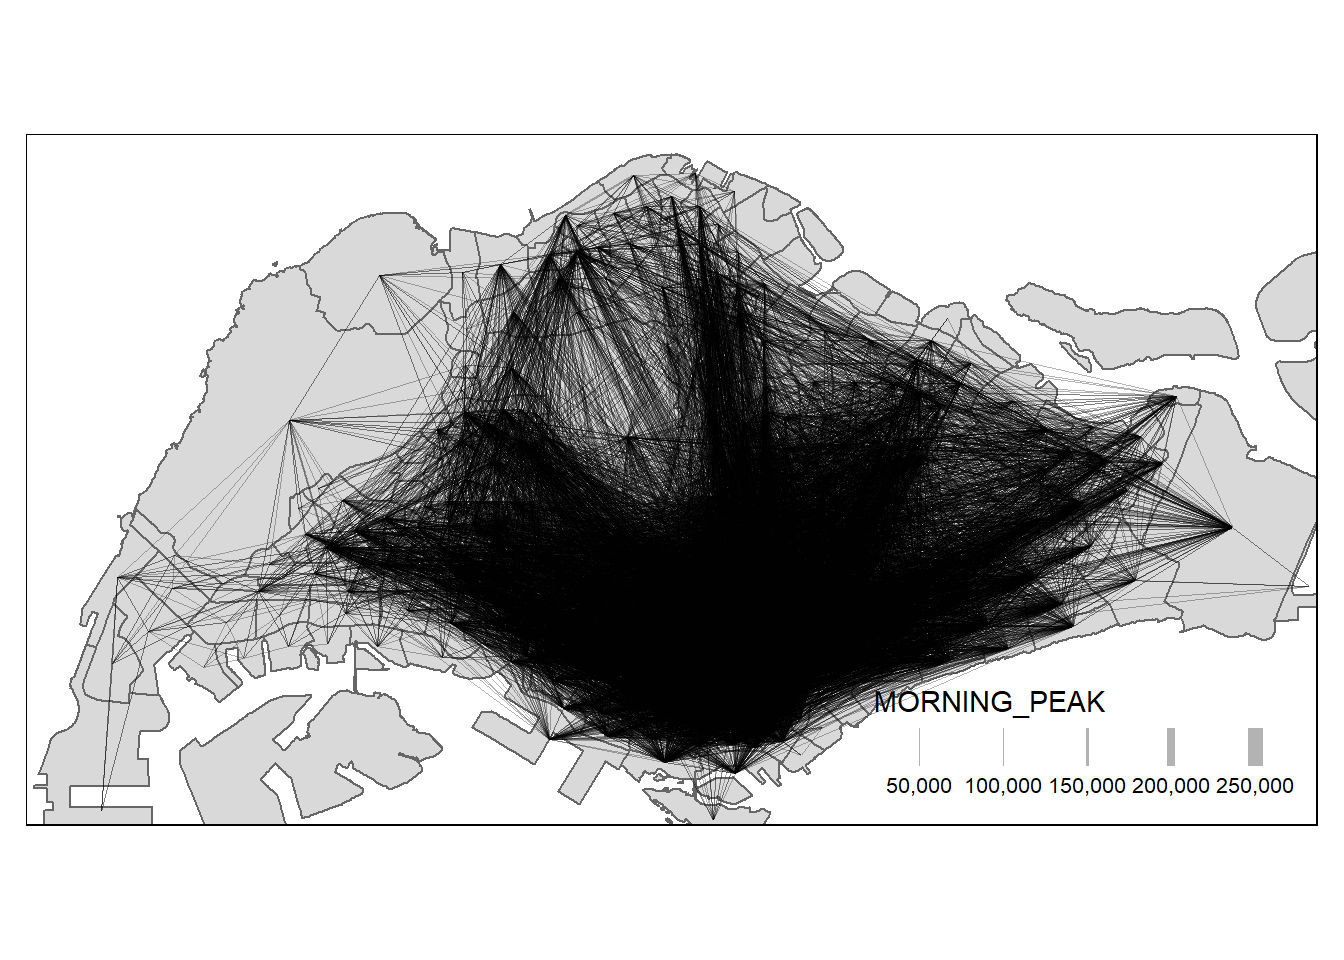
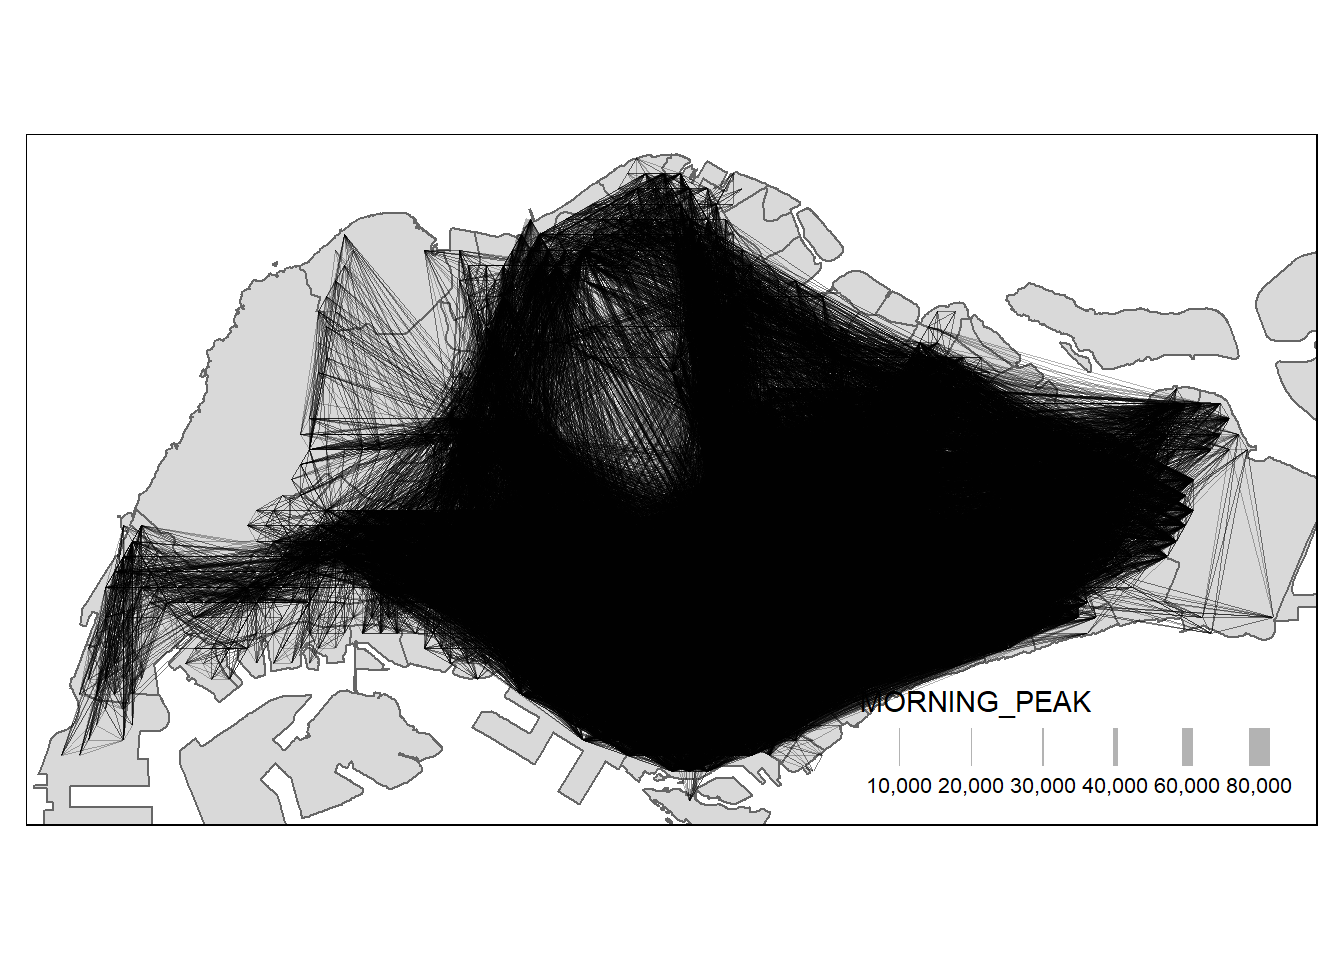
4th commit take_home_ex2 updated

Changed region(s): [[0.0312, 0.1562, 0.9688, 0.8438], [0.6562, 0.75, 0.9688, 0.8438]]

diff --git a/_site/take_home_ex2/take_home_ex2.html b/_site/take_home_ex2/take_home_ex2.html
@@ -282,7 +282,7 @@ pre > code.sourceCode > span > a:first-child::before { text-decoration: underlin
     <div>
     <div class="quarto-title-meta-heading">Modified</div>
     <div class="quarto-title-meta-contents">
-      <p class="date-modified">December 6, 2023</p>
+      <p class="date-modified">December 7, 2023</p>
     </div>
   </div>
     
@@ -488,7 +488,7 @@ Writing 2988 features with 0 fields and geometry type Polygon.</code></pre>
 <div class="cell-output cell-output-stdout">
 <pre><code>Reading layer `hexagon' from data source 
   `C:\czx0727\ISSS624_\take_home_ex2\data\geospatial' using driver `ESRI Shapefile'
-Simple feature collection with 20916 features and 1 field
+Simple feature collection with 23904 features and 1 field
 Geometry type: POLYGON
 Dimension:     XY
 Bounding box:  xmin: 3320.122 ymin: 26106.82 xmax: 48820.12 ymax: 50499.87
@@ -515,7 +515,7 @@ Projected CRS: SVY21 / Singapore TM</code></pre>
 <div class="cell-output cell-output-stderr">
 <pre><code>Warning in left_join(odbus6_9, od_data, by = c(ORIGIN_PT_CODE = "BUS_STOP_N")): Detected an unexpected many-to-many relationship between `x` and `y`.
 ℹ Row 1 of `x` matches multiple rows in `y`.
-ℹ Row 4705 of `y` matches multiple rows in `x`.
+ℹ Row 5377 of `y` matches multiple rows in `x`.
 ℹ If a many-to-many relationship is expected, set `relationship =
   "many-to-many"` to silence this warning.</code></pre>
 </div>
@@ -539,7 +539,7 @@ Projected CRS: SVY21 / Singapore TM</code></pre>
 <div class="cell-output cell-output-stderr">
 <pre><code>Warning in left_join(od_data_1, od_data, by = c(DESTIN_BS = "BUS_STOP_N")): Detected an unexpected many-to-many relationship between `x` and `y`.
 ℹ Row 1 of `x` matches multiple rows in `y`.
-ℹ Row 4698 of `y` matches multiple rows in `x`.
+ℹ Row 5369 of `y` matches multiple rows in `x`.
 ℹ If a many-to-many relationship is expected, set `relationship =
   "many-to-many"` to silence this warning.</code></pre>
 </div>
@@ -555,12 +555,11 @@ Projected CRS: SVY21 / Singapore TM</code></pre>
 </div>
 <div class="cell">
 <div class="sourceCode cell-code" id="cb35"><pre class="sourceCode r code-with-copy"><code class="sourceCode r"><span id="cb35-1"><a href="#cb35-1" aria-hidden="true" tabindex="-1"></a>od_data_2 <span class="ot">&lt;-</span> od_data_2 <span class="sc">%&gt;%</span></span>
-<span id="cb35-2"><a href="#cb35-2" aria-hidden="true" tabindex="-1"></a>  <span class="fu">rename</span>(<span class="at">DESTIN_SZ =</span> SUBZONE_C) <span class="sc">%&gt;%</span></span>
-<span id="cb35-3"><a href="#cb35-3" aria-hidden="true" tabindex="-1"></a>  <span class="fu">drop_na</span>() <span class="sc">%&gt;%</span></span>
-<span id="cb35-4"><a href="#cb35-4" aria-hidden="true" tabindex="-1"></a>  <span class="fu">group_by</span>(ORIGIN_SZ, DESTIN_SZ) <span class="sc">%&gt;%</span></span>
-<span id="cb35-5"><a href="#cb35-5" aria-hidden="true" tabindex="-1"></a>  <span class="fu">summarise</span>(<span class="at">MORNING_PEAK =</span> <span class="fu">sum</span>(TRIPS))</span></code><button title="Copy to Clipboard" class="code-copy-button"><i class="bi"></i></button></pre></div>
+<span id="cb35-2"><a href="#cb35-2" aria-hidden="true" tabindex="-1"></a>  <span class="fu">drop_na</span>() <span class="sc">%&gt;%</span></span>
+<span id="cb35-3"><a href="#cb35-3" aria-hidden="true" tabindex="-1"></a>  <span class="fu">group_by</span>(FID.x, FID.y) <span class="sc">%&gt;%</span></span>
+<span id="cb35-4"><a href="#cb35-4" aria-hidden="true" tabindex="-1"></a>  <span class="fu">summarise</span>(<span class="at">MORNING_PEAK =</span> <span class="fu">sum</span>(TRIPS))</span></code><button title="Copy to Clipboard" class="code-copy-button"><i class="bi"></i></button></pre></div>
 <div class="cell-output cell-output-stderr">
-<pre><code>`summarise()` has grouped output by 'ORIGIN_SZ'. You can override using the
+<pre><code>`summarise()` has grouped output by 'FID.x'. You can override using the
 `.groups` argument.</code></pre>
 </div>
 </div>
@@ -579,7 +578,7 @@ Projected CRS: SVY21 / Singapore TM</code></pre>
 <h2 class="anchored" data-anchor-id="removing-intra-zonal-flows"><strong>5.1 Removing intra-zonal flows</strong></h2>
 <p>I will not plot the intra-zonal flows. The code chunk below will be used to remove intra-zonal flows.</p>
 <div class="cell">
-<div class="sourceCode cell-code" id="cb39"><pre class="sourceCode r code-with-copy"><code class="sourceCode r"><span id="cb39-1"><a href="#cb39-1" aria-hidden="true" tabindex="-1"></a>od_data_3 <span class="ot">&lt;-</span> od_data_2[od_data_2<span class="sc">$</span>ORIGIN_SZ<span class="sc">!=</span>od_data_2<span class="sc">$</span>DESTIN_SZ,]</span></code><button title="Copy to Clipboard" class="code-copy-button"><i class="bi"></i></button></pre></div>
+<div class="sourceCode cell-code" id="cb39"><pre class="sourceCode r code-with-copy"><code class="sourceCode r"><span id="cb39-1"><a href="#cb39-1" aria-hidden="true" tabindex="-1"></a>od_data_3 <span class="ot">&lt;-</span> od_data_2[od_data_2<span class="sc">$</span>FID.x<span class="sc">!=</span>od_data_2<span class="sc">$</span>FID.y,]</span></code><button title="Copy to Clipboard" class="code-copy-button"><i class="bi"></i></button></pre></div>
 </div>
 </section>
 <section id="creating-desire-lines" class="level2">
@@ -587,8 +586,8 @@ Projected CRS: SVY21 / Singapore TM</code></pre>
 <p>In this code chunk below,&nbsp;<code>od2line()</code>&nbsp;of&nbsp;<strong>stplanr</strong>&nbsp;package is used to create the desire lines.</p>
 <div class="cell">
 <div class="sourceCode cell-code" id="cb40"><pre class="sourceCode r code-with-copy"><code class="sourceCode r"><span id="cb40-1"><a href="#cb40-1" aria-hidden="true" tabindex="-1"></a>flowLine <span class="ot">&lt;-</span> <span class="fu">od2line</span>(<span class="at">flow =</span> od_data_3, </span>
-<span id="cb40-2"><a href="#cb40-2" aria-hidden="true" tabindex="-1"></a>                    <span class="at">zones =</span> mpsz,</span>
-<span id="cb40-3"><a href="#cb40-3" aria-hidden="true" tabindex="-1"></a>                    <span class="at">zone_code =</span> <span class="st">"SUBZONE_C"</span>)</span></code><button title="Copy to Clipboard" class="code-copy-button"><i class="bi"></i></button></pre></div>
+<span id="cb40-2"><a href="#cb40-2" aria-hidden="true" tabindex="-1"></a>                    <span class="at">zones =</span> hexagon,</span>
+<span id="cb40-3"><a href="#cb40-3" aria-hidden="true" tabindex="-1"></a>                    <span class="at">zone_code =</span> <span class="st">"FID"</span>)</span></code><button title="Copy to Clipboard" class="code-copy-button"><i class="bi"></i></button></pre></div>
 <div class="cell-output cell-output-stderr">
 <pre><code>Creating centroids representing desire line start and end points.</code></pre>
 </div>
@@ -601,20 +600,20 @@ Projected CRS: SVY21 / Singapore TM</code></pre>
 <div class="sourceCode cell-code" id="cb42"><pre class="sourceCode r code-with-copy"><code class="sourceCode r"><span id="cb42-1"><a href="#cb42-1" aria-hidden="true" tabindex="-1"></a>mapex <span class="ot">&lt;-</span> <span class="fu">st_bbox</span>(hexagon)</span></code><button title="Copy to Clipboard" class="code-copy-button"><i class="bi"></i></button></pre></div>
 </div>
 <div class="cell">
-<div class="sourceCode cell-code" id="cb43"><pre class="sourceCode r code-with-copy"><code class="sourceCode r"><span id="cb43-1"><a href="#cb43-1" aria-hidden="true" tabindex="-1"></a><span class="fu">tm_shape</span>(mpsz,</span>
-<span id="cb43-2"><a href="#cb43-2" aria-hidden="true" tabindex="-1"></a>         <span class="at">bbox =</span> mapex) <span class="sc">+</span></span>
-<span id="cb43-3"><a href="#cb43-3" aria-hidden="true" tabindex="-1"></a>  <span class="fu">tm_polygons</span>() <span class="sc">+</span></span>
-<span id="cb43-4"><a href="#cb43-4" aria-hidden="true" tabindex="-1"></a>flowLine <span class="sc">%&gt;%</span>  </span>
-<span id="cb43-5"><a href="#cb43-5" aria-hidden="true" tabindex="-1"></a><span class="fu">tm_shape</span>() <span class="sc">+</span></span>
-<span id="cb43-6"><a href="#cb43-6" aria-hidden="true" tabindex="-1"></a>  <span class="fu">tm_lines</span>(<span class="at">lwd =</span> <span class="st">"MORNING_PEAK"</span>,</span>
-<span id="cb43-7"><a href="#cb43-7" aria-hidden="true" tabindex="-1"></a>           <span class="at">style =</span> <span class="st">"quantile"</span>,</span>
-<span id="cb43-8"><a href="#cb43-8" aria-hidden="true" tabindex="-1"></a>           <span class="at">scale =</span> <span class="fu">c</span>(<span class="fl">0.1</span>, <span class="dv">1</span>, <span class="dv">3</span>, <span class="dv">5</span>, <span class="dv">7</span>, <span class="dv">10</span>),</span>
-<span id="cb43-9"><a href="#cb43-9" aria-hidden="true" tabindex="-1"></a>           <span class="at">n =</span> <span class="dv">6</span>,</span>
-<span id="cb43-10"><a href="#cb43-10" aria-hidden="true" tabindex="-1"></a>           <span class="at">alpha =</span> <span class="fl">0.3</span>)</span></code><button title="Copy to Clipboard" class="code-copy-button"><i class="bi"></i></button></pre></div>
+<div class="sourceCode cell-code" id="cb43"><pre class="sourceCode r code-with-copy"><code class="sourceCode r"><span id="cb43-1"><a href="#cb43-1" aria-hidden="true" tabindex="-1"></a><span class="fu">tmap_mode</span>(<span class="st">"plot"</span>)</span></code><button title="Copy to Clipboard" class="code-copy-button"><i class="bi"></i></button></pre></div>
 <div class="cell-output cell-output-stderr">
-<pre><code>Warning in g$scale * (w_legend/maxW): longer object length is not a multiple of
-shorter object length</code></pre>
+<pre><code>tmap mode set to plotting</code></pre>
 </div>
+<div class="sourceCode cell-code" id="cb45"><pre class="sourceCode r code-with-copy"><code class="sourceCode r"><span id="cb45-1"><a href="#cb45-1" aria-hidden="true" tabindex="-1"></a><span class="fu">tm_shape</span>(mpsz,</span>
+<span id="cb45-2"><a href="#cb45-2" aria-hidden="true" tabindex="-1"></a>         <span class="at">bbox =</span> mapex) <span class="sc">+</span></span>
+<span id="cb45-3"><a href="#cb45-3" aria-hidden="true" tabindex="-1"></a>  <span class="fu">tm_polygons</span>() <span class="sc">+</span></span>
+<span id="cb45-4"><a href="#cb45-4" aria-hidden="true" tabindex="-1"></a>flowLine <span class="sc">%&gt;%</span>  </span>
+<span id="cb45-5"><a href="#cb45-5" aria-hidden="true" tabindex="-1"></a><span class="fu">tm_shape</span>() <span class="sc">+</span></span>
+<span id="cb45-6"><a href="#cb45-6" aria-hidden="true" tabindex="-1"></a>  <span class="fu">tm_lines</span>(<span class="at">lwd =</span> <span class="st">"MORNING_PEAK"</span>,</span>
+<span id="cb45-7"><a href="#cb45-7" aria-hidden="true" tabindex="-1"></a>           <span class="at">style =</span> <span class="st">"quantile"</span>,</span>
+<span id="cb45-8"><a href="#cb45-8" aria-hidden="true" tabindex="-1"></a>           <span class="at">scale =</span> <span class="fu">c</span>(<span class="fl">0.1</span>, <span class="dv">1</span>, <span class="dv">3</span>, <span class="dv">5</span>, <span class="dv">7</span>, <span class="dv">10</span>),</span>
+<span id="cb45-9"><a href="#cb45-9" aria-hidden="true" tabindex="-1"></a>           <span class="at">n =</span> <span class="dv">6</span>,</span>
+<span id="cb45-10"><a href="#cb45-10" aria-hidden="true" tabindex="-1"></a>           <span class="at">alpha =</span> <span class="fl">0.3</span>)</span></code><button title="Copy to Clipboard" class="code-copy-button"><i class="bi"></i></button></pre></div>
 <div class="cell-output cell-output-stderr">
 <pre><code>Warning in g$scale * (x/maxW): longer object length is not a multiple of
 shorter object length</code></pre>
@@ -625,21 +624,17 @@ shorter object length</code></pre>
 </div>
 <p>When the flow data are very messy and highly skewed like the one shown above, it is wiser to focus on selected flows, for example flow greater than or equal to 5000 as shown below.</p>
 <div class="cell">
-<div class="sourceCode cell-code" id="cb46"><pre class="sourceCode r code-with-copy"><code class="sourceCode r"><span id="cb46-1"><a href="#cb46-1" aria-hidden="true" tabindex="-1"></a><span class="fu">tm_shape</span>(mpsz,</span>
-<span id="cb46-2"><a href="#cb46-2" aria-hidden="true" tabindex="-1"></a>         <span class="at">bbox =</span> mapex) <span class="sc">+</span></span>
-<span id="cb46-3"><a href="#cb46-3" aria-hidden="true" tabindex="-1"></a>  <span class="fu">tm_polygons</span>() <span class="sc">+</span></span>
-<span id="cb46-4"><a href="#cb46-4" aria-hidden="true" tabindex="-1"></a>flowLine <span class="sc">%&gt;%</span>  </span>
-<span id="cb46-5"><a href="#cb46-5" aria-hidden="true" tabindex="-1"></a>  <span class="fu">filter</span>(MORNING_PEAK <span class="sc">&gt;=</span> <span class="dv">5000</span>) <span class="sc">%&gt;%</span></span>
-<span id="cb46-6"><a href="#cb46-6" aria-hidden="true" tabindex="-1"></a><span class="fu">tm_shape</span>() <span class="sc">+</span></span>
-<span id="cb46-7"><a href="#cb46-7" aria-hidden="true" tabindex="-1"></a>  <span class="fu">tm_lines</span>(<span class="at">lwd =</span> <span class="st">"MORNING_PEAK"</span>,</span>
-<span id="cb46-8"><a href="#cb46-8" aria-hidden="true" tabindex="-1"></a>           <span class="at">style =</span> <span class="st">"quantile"</span>,</span>
-<span id="cb46-9"><a href="#cb46-9" aria-hidden="true" tabindex="-1"></a>           <span class="at">scale =</span> <span class="fu">c</span>(<span class="fl">0.1</span>, <span class="dv">1</span>, <span class="dv">3</span>, <span class="dv">5</span>, <span class="dv">7</span>, <span class="dv">10</span>),</span>
-<span id="cb46-10"><a href="#cb46-10" aria-hidden="true" tabindex="-1"></a>           <span class="at">n =</span> <span class="dv">6</span>,</span>
-<span id="cb46-11"><a href="#cb46-11" aria-hidden="true" tabindex="-1"></a>           <span class="at">alpha =</span> <span class="fl">0.3</span>)</span></code><button title="Copy to Clipboard" class="code-copy-button"><i class="bi"></i></button></pre></div>
-<div class="cell-output cell-output-stderr">
-<pre><code>Warning in g$scale * (w_legend/maxW): longer object length is not a multiple of
-shorter object length</code></pre>
-</div>
+<div class="sourceCode cell-code" id="cb47"><pre class="sourceCode r code-with-copy"><code class="sourceCode r"><span id="cb47-1"><a href="#cb47-1" aria-hidden="true" tabindex="-1"></a><span class="fu">tm_shape</span>(mpsz,</span>
+<span id="cb47-2"><a href="#cb47-2" aria-hidden="true" tabindex="-1"></a>         <span class="at">bbox =</span> mapex) <span class="sc">+</span></span>
+<span id="cb47-3"><a href="#cb47-3" aria-hidden="true" tabindex="-1"></a>  <span class="fu">tm_polygons</span>() <span class="sc">+</span></span>
+<span id="cb47-4"><a href="#cb47-4" aria-hidden="true" tabindex="-1"></a>flowLine <span class="sc">%&gt;%</span>  </span>
+<span id="cb47-5"><a href="#cb47-5" aria-hidden="true" tabindex="-1"></a>  <span class="fu">filter</span>(MORNING_PEAK <span class="sc">&gt;=</span> <span class="dv">5000</span>) <span class="sc">%&gt;%</span></span>
+<span id="cb47-6"><a href="#cb47-6" aria-hidden="true" tabindex="-1"></a><span class="fu">tm_shape</span>() <span class="sc">+</span></span>
+<span id="cb47-7"><a href="#cb47-7" aria-hidden="true" tabindex="-1"></a>  <span class="fu">tm_lines</span>(<span class="at">lwd =</span> <span class="st">"MORNING_PEAK"</span>,</span>
+<span id="cb47-8"><a href="#cb47-8" aria-hidden="true" tabindex="-1"></a>           <span class="at">style =</span> <span class="st">"quantile"</span>,</span>
+<span id="cb47-9"><a href="#cb47-9" aria-hidden="true" tabindex="-1"></a>           <span class="at">scale =</span> <span class="fu">c</span>(<span class="fl">0.1</span>, <span class="dv">1</span>, <span class="dv">3</span>, <span class="dv">5</span>, <span class="dv">7</span>, <span class="dv">10</span>),</span>
+<span id="cb47-10"><a href="#cb47-10" aria-hidden="true" tabindex="-1"></a>           <span class="at">n =</span> <span class="dv">6</span>,</span>
+<span id="cb47-11"><a href="#cb47-11" aria-hidden="true" tabindex="-1"></a>           <span class="at">alpha =</span> <span class="fl">0.3</span>)</span></code><button title="Copy to Clipboard" class="code-copy-button"><i class="bi"></i></button></pre></div>
 <div class="cell-output cell-output-stderr">
 <pre><code>Warning in g$scale * (x/maxW): longer object length is not a multiple of
 shorter object length</code></pre>
